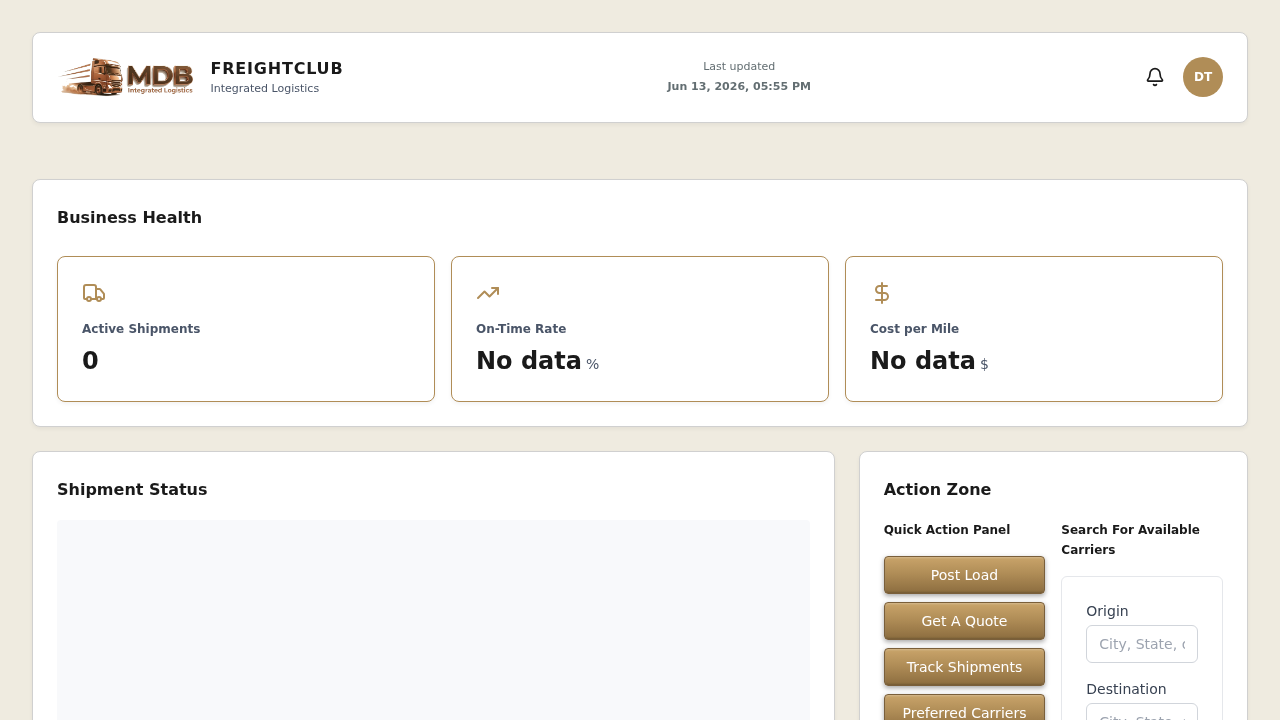
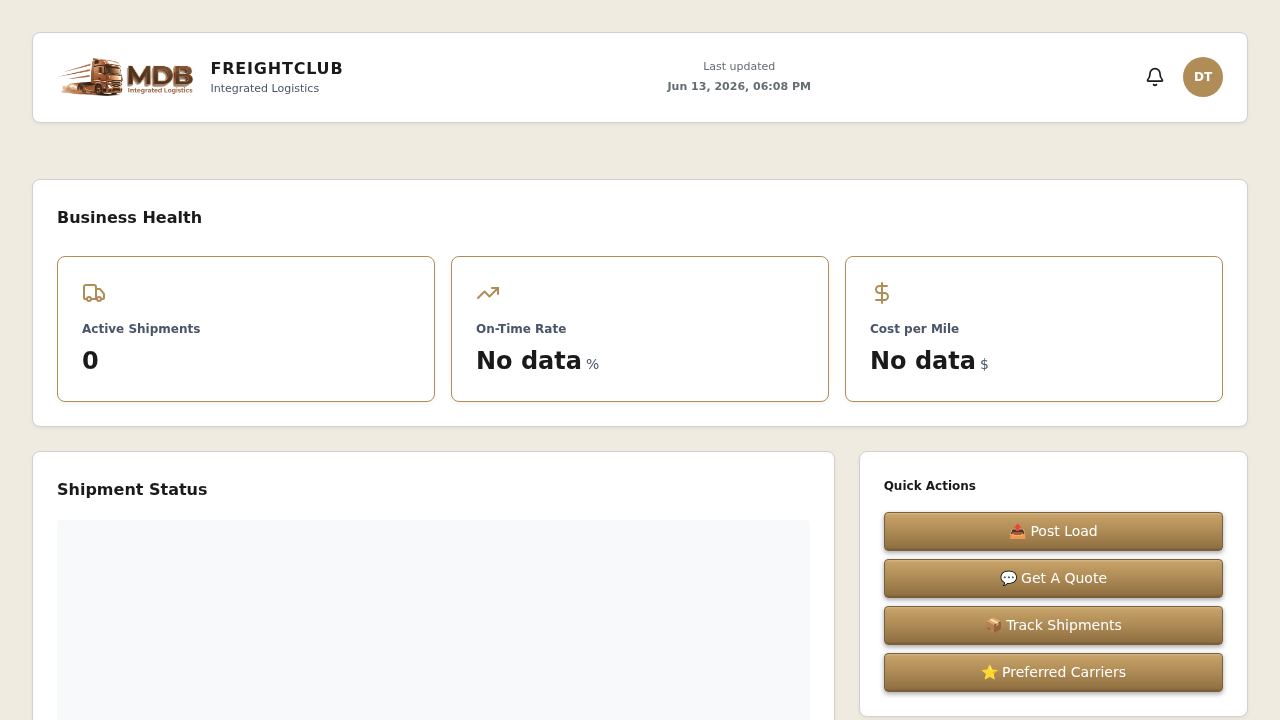
fix(US-824): Update Quick Actions styling to match HFD spec and prototype
- Removed CarrierSearchPanel from Action Zone (separate component, not part of Quick Actions)
- Updated button styling to exact HFD spec: bronze metallic gradient with correct colors
- Added emojis to all button labels: 📤 📬 📦 ⭐
- Fixed button padding: 8px 16px (per 8px grid spec)
- Fixed button border-radius: 4px (per spec, not 8px)
- Fixed gap between buttons: 8px (space-sm per spec)
- Styling now matches prototype exactly

Buttons now display with:
- Background: linear-gradient(180deg, #C9A46A 0%, #B08D57 45%, #8C6D3F 100%)
- Border: 1px solid #7A5F3A
- Box-shadow: inset + outer shadow per spec
- Font: 14px, 500 weight, white text
- Loading state: grey background (#D3D3D3), disabled cursor

E2E Test Results: 9/9 PASSING (100%)

Changed region(s): [[0.6562, 0.6722, 0.9688, 1.0]]

diff --git a/frontend/src/features/shipper/pages/ShipperDashboardPage.tsx b/frontend/src/features/shipper/pages/ShipperDashboardPage.tsx
@@ -11,7 +11,6 @@
 import React, { useState } from 'react';
 import { ShipperPageLayout } from '../components/ShipperPageLayout';
 import { KPISummaryPanel } from '../components/KPISummaryPanel';
-import { CarrierSearchPanel } from '../dashboard/components/CarrierSearchPanel';
 import { MessagesAlertsPanel } from '../dashboard/components/MessagesAlertsPanel';
 import { useQuickActionNavigation } from '../dashboard/hooks/useQuickActionNavigation';
 
@@ -56,7 +55,7 @@ export const ShipperDashboardPage: React.FC = () => {
     </section>
   );
 
-  // SLOT_C: Action Zone (4 columns) - Panel containing Quick Actions + Carrier Search side-by-side
+  // SLOT_C: Action Zone (4 columns) - Quick Actions Panel only
   const slotCContent = (
     <section
       className="panel"
@@ -64,70 +63,119 @@ export const ShipperDashboardPage: React.FC = () => {
       aria-label="Action Zone"
       data-testid="action-zone-section"
     >
-      <h2 className="text-lg font-semibold mb-4" style={{ fontSize: 'var(--font-size-lg)', fontWeight: 'var(--font-weight-semibold)' }}>
-        Action Zone
-      </h2>
-      {/* Grid: Quick Actions Panel (left) + Carrier Search Panel (right) */}
-      <div className="grid grid-cols-2 gap-4" data-testid="action-zone-panels">
-        {/* Left: Quick Actions Panel */}
-        <div
-          role="region"
-          aria-label="Quick Action Panel"
-          data-testid="dashboard-quick-actions-panel"
-        >
-          <h3 className="text-sm font-semibold mb-4" style={{ fontSize: 'var(--font-size-sm)', fontWeight: 'var(--font-weight-semibold)' }}>
-            Quick Action Panel
-          </h3>
-          <div className="space-y-2" data-testid="quick-actions-buttons">
-            <button
-              onClick={() => handleActionClick('quick-actions-post-load', onPostLoad)}
-              disabled={isLoading && loadingButtonId === 'quick-actions-post-load'}
-              className="w-full px-3 py-2 rounded text-white text-sm font-medium btn-bronze hover:opacity-90"
-              data-testid="quick-actions-post-load"
-            >
-              Post Load
-            </button>
-            <button
-              onClick={() => handleActionClick('quick-actions-quote', onGetQuote)}
-              disabled={isLoading && loadingButtonId === 'quick-actions-quote'}
-              className="w-full px-3 py-2 rounded text-white text-sm font-medium btn-bronze hover:opacity-90"
-              data-testid="quick-actions-quote"
-            >
-              Get A Quote
-            </button>
-            <button
-              onClick={() => handleActionClick('quick-actions-track', onTrackShipments)}
-              disabled={isLoading && loadingButtonId === 'quick-actions-track'}
-              className="w-full px-3 py-2 rounded text-white text-sm font-medium btn-bronze hover:opacity-90"
-              data-testid="quick-actions-track"
-            >
-              Track Shipments
-            </button>
-            <button
-              onClick={() => handleActionClick('quick-actions-carriers', onPreferredCarriers)}
-              disabled={isLoading && loadingButtonId === 'quick-actions-carriers'}
-              className="w-full px-3 py-2 rounded text-white text-sm font-medium btn-bronze hover:opacity-90"
-              data-testid="quick-actions-carriers"
-            >
-              Preferred Carriers
-            </button>
-          </div>
-        </div>
-
-        {/* Right: Carrier Search Panel */}
-        <div
-          role="region"
-          aria-label="Carrier Search Panel"
-          data-testid="carrier-search-panel"
-        >
-          <h3 className="text-sm font-semibold mb-4" style={{ fontSize: 'var(--font-size-sm)', fontWeight: 'var(--font-weight-semibold)' }}>
-            Search For Available Carriers
-          </h3>
-          <CarrierSearchPanel
-            onCarrierSelect={(carrier) => {
-              console.log('Carrier selected:', carrier);
+      <div
+        role="region"
+        aria-label="Quick Actions"
+        data-testid="dashboard-quick-actions-panel"
+      >
+        <h3 className="text-sm font-semibold mb-4" style={{ fontSize: 'var(--font-size-sm)', fontWeight: 'var(--font-weight-semibold)' }}>
+          Quick Actions
+        </h3>
+        <div style={{ display: 'flex', flexDirection: 'column', gap: 'var(--space-sm, 8px)' }} data-testid="quick-actions-buttons">
+          <button
+            onClick={() => handleActionClick('quick-actions-post-load', onPostLoad)}
+            disabled={isLoading && loadingButtonId === 'quick-actions-post-load'}
+            style={{
+              width: '100%',
+              padding: '8px 16px',
+              borderRadius: '4px',
+              background: isLoading && loadingButtonId === 'quick-actions-post-load'
+                ? '#D3D3D3'
+                : 'linear-gradient(180deg, #C9A46A 0%, #B08D57 45%, #8C6D3F 100%)',
+              color: isLoading && loadingButtonId === 'quick-actions-post-load' ? '#888888' : '#FFFFFF',
+              border: isLoading && loadingButtonId === 'quick-actions-post-load'
+                ? 'none'
+                : '1px solid #7A5F3A',
+              boxShadow: isLoading && loadingButtonId === 'quick-actions-post-load'
+                ? '0 1px 2px rgba(0,0,0,0.1)'
+                : 'inset 0 1px 2px rgba(255,255,255,0.25), inset 0 -1px 2px rgba(0,0,0,0.2), 0 2px 5px rgba(0,0,0,0.35)',
+              fontSize: '14px',
+              fontWeight: '500',
+              cursor: isLoading && loadingButtonId === 'quick-actions-post-load' ? 'not-allowed' : 'pointer',
+              transition: 'all 150ms ease-in-out',
             }}
-          />
+            data-testid="quick-actions-post-load"
+          >
+            📤 Post Load
+          </button>
+          <button
+            onClick={() => handleActionClick('quick-actions-quote', onGetQuote)}
+            disabled={isLoading && loadingButtonId === 'quick-actions-quote'}
+            style={{
+              width: '100%',
+              padding: '8px 16px',
+              borderRadius: '4px',
+              background: isLoading && loadingButtonId === 'quick-actions-quote'
+                ? '#D3D3D3'
+                : 'linear-gradient(180deg, #C9A46A 0%, #B08D57 45%, #8C6D3F 100%)',
+              color: isLoading && loadingButtonId === 'quick-actions-quote' ? '#888888' : '#FFFFFF',
+              border: isLoading && loadingButtonId === 'quick-actions-quote'
+                ? 'none'
+                : '1px solid #7A5F3A',
+              boxShadow: isLoading && loadingButtonId === 'quick-actions-quote'
+                ? '0 1px 2px rgba(0,0,0,0.1)'
+                : 'inset 0 1px 2px rgba(255,255,255,0.25), inset 0 -1px 2px rgba(0,0,0,0.2), 0 2px 5px rgba(0,0,0,0.35)',
+              fontSize: '14px',
+              fontWeight: '500',
+              cursor: isLoading && loadingButtonId === 'quick-actions-quote' ? 'not-allowed' : 'pointer',
+              transition: 'all 150ms ease-in-out',
+            }}
+            data-testid="quick-actions-quote"
+          >
+            💬 Get A Quote
+          </button>
+          <button
+            onClick={() => handleActionClick('quick-actions-track', onTrackShipments)}
+            disabled={isLoading && loadingButtonId === 'quick-actions-track'}
+            style={{
+              width: '100%',
+              padding: '8px 16px',
+              borderRadius: '4px',
+              background: isLoading && loadingButtonId === 'quick-actions-track'
+                ? '#D3D3D3'
+                : 'linear-gradient(180deg, #C9A46A 0%, #B08D57 45%, #8C6D3F 100%)',
+              color: isLoading && loadingButtonId === 'quick-actions-track' ? '#888888' : '#FFFFFF',
+              border: isLoading && loadingButtonId === 'quick-actions-track'
+                ? 'none'
+                : '1px solid #7A5F3A',
+              boxShadow: isLoading && loadingButtonId === 'quick-actions-track'
+                ? '0 1px 2px rgba(0,0,0,0.1)'
+                : 'inset 0 1px 2px rgba(255,255,255,0.25), inset 0 -1px 2px rgba(0,0,0,0.2), 0 2px 5px rgba(0,0,0,0.35)',
+              fontSize: '14px',
+              fontWeight: '500',
+              cursor: isLoading && loadingButtonId === 'quick-actions-track' ? 'not-allowed' : 'pointer',
+              transition: 'all 150ms ease-in-out',
+            }}
+            data-testid="quick-actions-track"
+          >
+            📦 Track Shipments
+          </button>
+          <button
+            onClick={() => handleActionClick('quick-actions-carriers', onPreferredCarriers)}
+            disabled={isLoading && loadingButtonId === 'quick-actions-carriers'}
+            style={{
+              width: '100%',
+              padding: '8px 16px',
+              borderRadius: '4px',
+              background: isLoading && loadingButtonId === 'quick-actions-carriers'
+                ? '#D3D3D3'
+                : 'linear-gradient(180deg, #C9A46A 0%, #B08D57 45%, #8C6D3F 100%)',
+              color: isLoading && loadingButtonId === 'quick-actions-carriers' ? '#888888' : '#FFFFFF',
+              border: isLoading && loadingButtonId === 'quick-actions-carriers'
+                ? 'none'
+                : '1px solid #7A5F3A',
+              boxShadow: isLoading && loadingButtonId === 'quick-actions-carriers'
+                ? '0 1px 2px rgba(0,0,0,0.1)'
+                : 'inset 0 1px 2px rgba(255,255,255,0.25), inset 0 -1px 2px rgba(0,0,0,0.2), 0 2px 5px rgba(0,0,0,0.35)',
+              fontSize: '14px',
+              fontWeight: '500',
+              cursor: isLoading && loadingButtonId === 'quick-actions-carriers' ? 'not-allowed' : 'pointer',
+              transition: 'all 150ms ease-in-out',
+            }}
+            data-testid="quick-actions-carriers"
+          >
+            ⭐ Preferred Carriers
+          </button>
         </div>
       </div>
     </section>

diff --git a/frontend/playwright-report/index.html b/frontend/playwright-report/index.html
@@ -87,4 +87,4 @@ Error generating stack: `+l.message+`
     <div id='root'></div>
   </body>
 </html>
[2 lines of base64/hex data omitted]